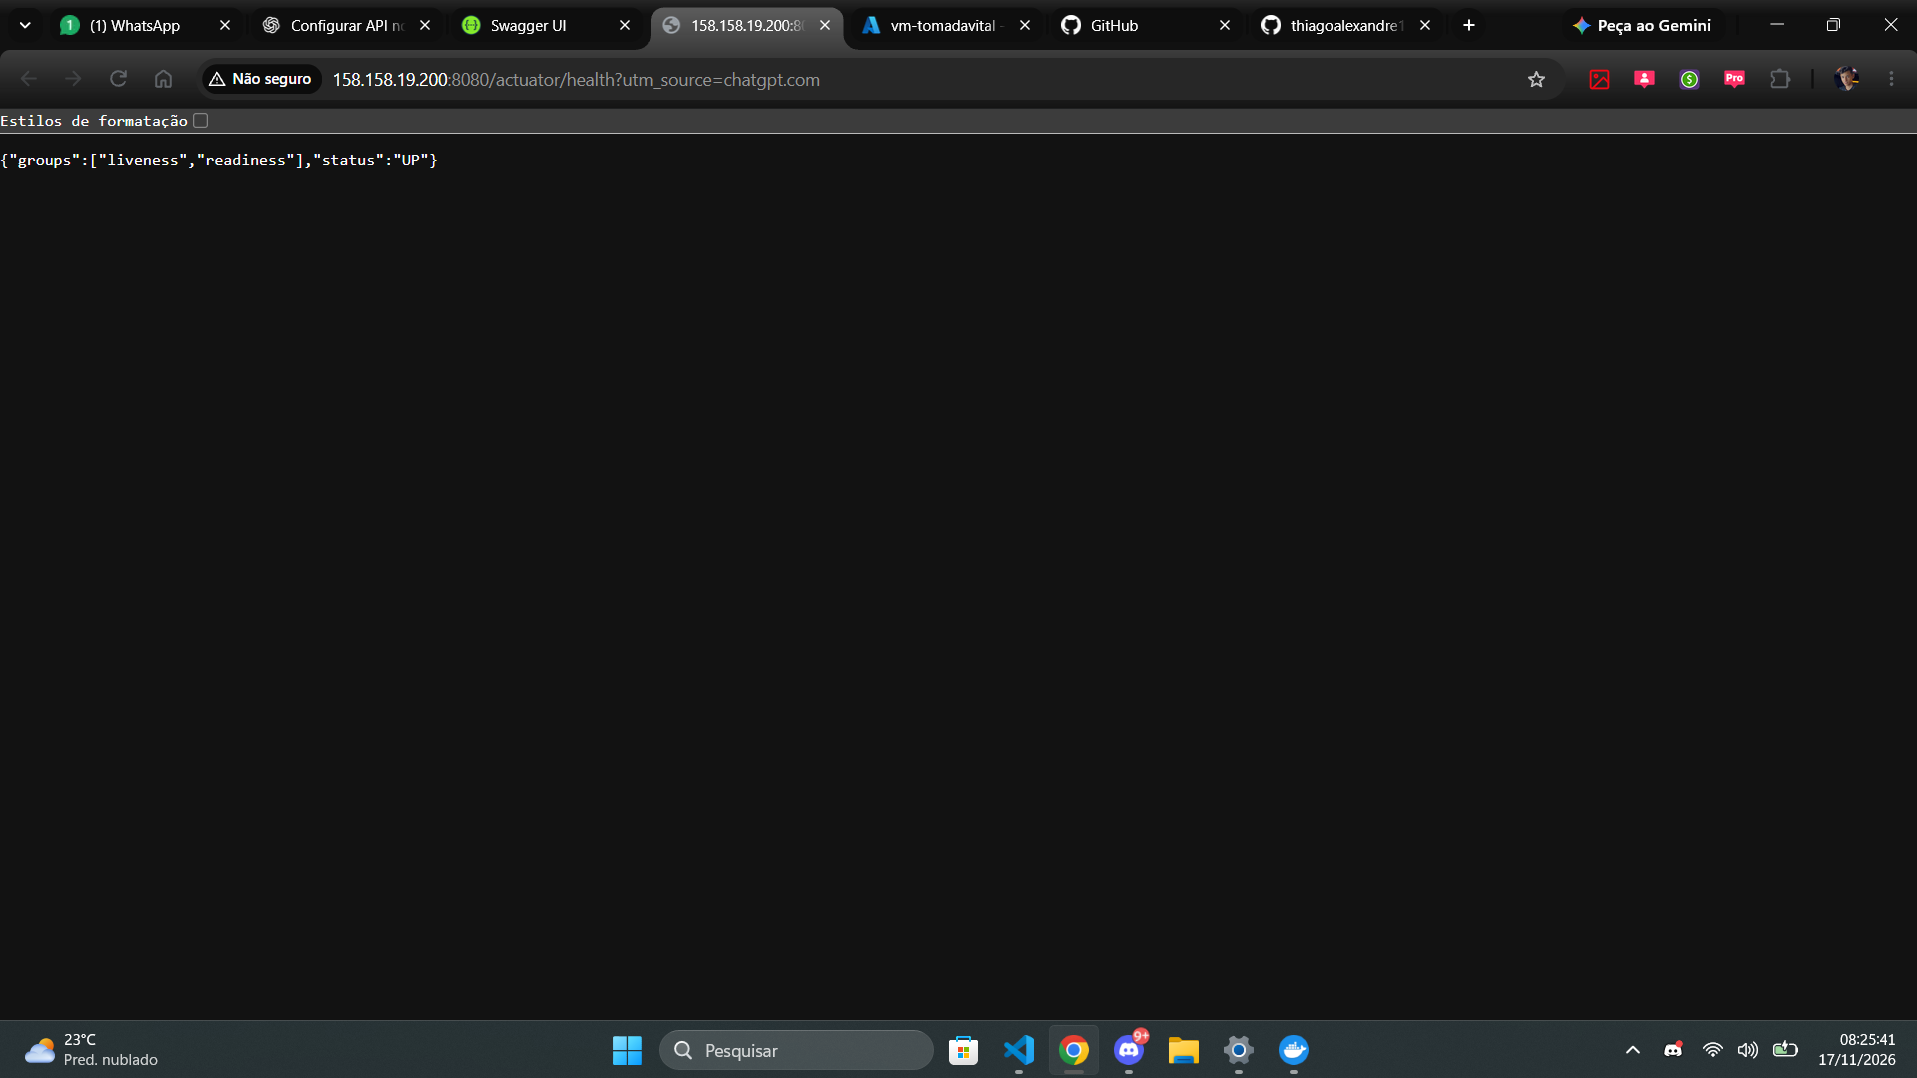
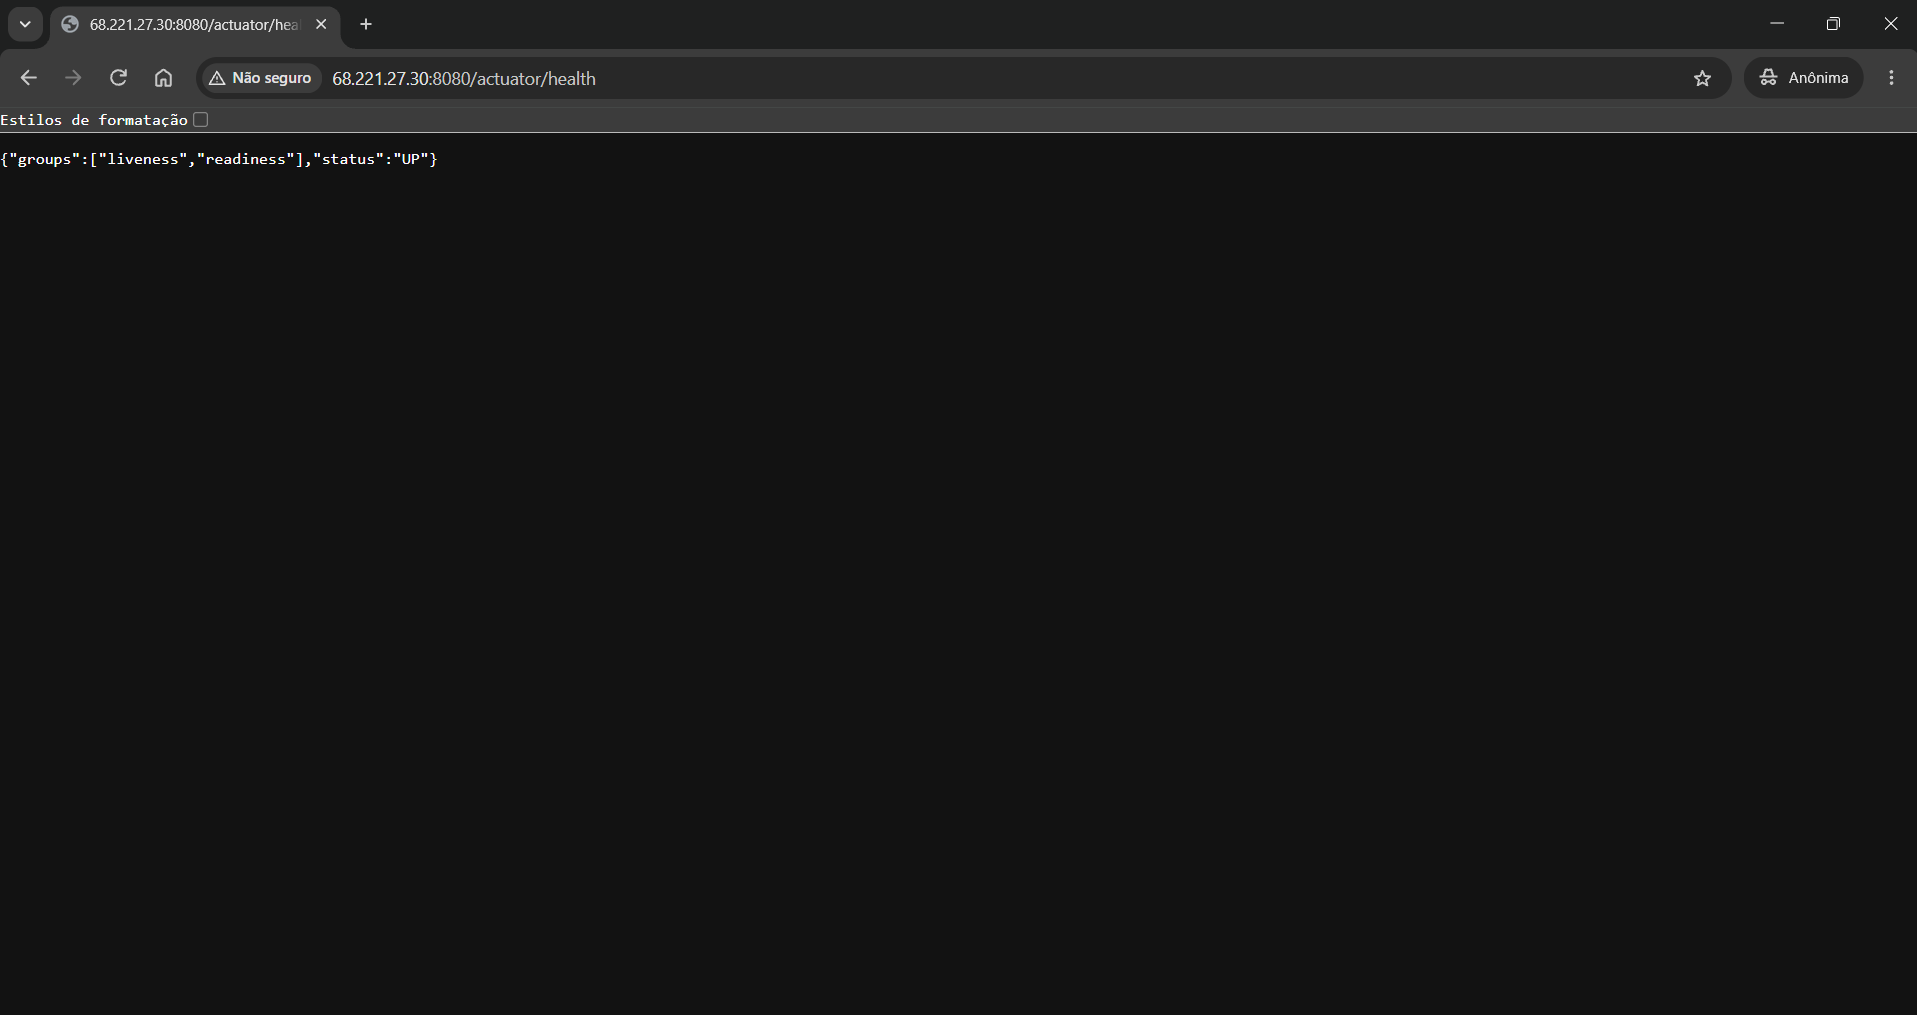
docs: adiciona evidencias complementares e atualiza infraestrutura Azure

diff --git a/README.md b/README.md
@@ -182,7 +182,7 @@ Substitua `IP_PUBLICO` pelo IP obtido do Azure para acessar externamente:
 | OpenAPI | `http://IP_PUBLICO:8080/v3/api-docs` |
 | Health | `http://IP_PUBLICO:8080/actuator/health` |
 
-IP utilizado na demonstração: `158.158.19.200` (pode mudar ao recriar a VM). HTTP sem TLS é somente para demonstração com dados fictícios. Não inserir dados de pacientes reais; restringir acesso e configurar HTTPS antes de qualquer uso real.
+IP utilizado na demonstração original (17/11/2026): `158.158.19.200`. Novo IP utilizado nas evidências complementares (18/11/2026): `68.221.27.30`. A infraestrutura original foi excluída após a gravação e recriada pelo mesmo script Azure CLI, comprovando a reprodutibilidade do ambiente. O IP poderá mudar novamente em futuras implantações. HTTP sem TLS é somente para demonstração com dados fictícios. Não inserir dados de pacientes reais; restringir acesso e configurar HTTPS antes de qualquer uso real.
 
 ## Dockerfile e Docker Compose
 
@@ -250,7 +250,7 @@ printf 'ID temporario: %s\n' "$TID"
 curl -sS -i -X DELETE "$BASE/api/pacientes/$TID" -H "Authorization: Bearer $TOKEN"
 ```
 
-Resultados esperados: POST 201, GET 200, PUT 200 e DELETE 204. O login e o CRUD via curl foram validados. O Swagger abriu publicamente e o login retornou 200; o CRUD protegido pelo Swagger foi validado com sucesso após a renovação do token JWT. Para usar o Swagger, autorize `basicAuth`, execute `POST /autenticacao/login`, depois cole apenas o valor de `accessToken` em `bearerAuth` (sem aspas nem prefixo Bearer). Nunca mostre o token em evidências.
+Resultados esperados: POST 201, GET 200, PUT 200 e DELETE 204. O login e o CRUD via curl foram validados. O Swagger abriu publicamente e o login retornou 200; o CRUD protegido pelo Swagger foi validado com sucesso após a renovação do token JWT. Para usar o Swagger, obtenha o JWT por HTTP Basic no endpoint `POST /autenticacao/login`, desautorize `basicAuth` e cole apenas o valor de `accessToken` em `bearerAuth` (sem aspas nem prefixo Bearer). Nunca mostre o token em evidências.
 
 ## SELECT e persistência
 
@@ -286,9 +286,13 @@ Execute a última consulta HTTP após a API estar pronta. **Não use `docker com
 | SELECT em duas tabelas | [05-select.png](docs/evidencias/05-select.png) |
 | Persistência após recriação | [06-persistencia.png](docs/evidencias/06-persistencia.png) |
 | Usuário e WORKDIR da API, rede e volume | [07-rede-volume.png](docs/evidencias/07-rede-volume.png) |
-| UID do processo MySQL e saúde da API | [08-mysql-uid.png](docs/evidencias/08-mysql-uid.png) |
+| UID 999 do processo MySQL | [08-mysql-uid.png](docs/evidencias/08-mysql-uid.png) |
+| Logs da API | [09-logs-api.png](docs/evidencias/09-logs-api.png) |
+| Logs do banco | [10-logs-db.png](docs/evidencias/10-logs-db.png) |
+| DELETE de registro temporário (204) | [11-delete.png](docs/evidencias/11-delete.png) |
+| Recriação da infraestrutura por Azure CLI | [12-azure-cli.png](docs/evidencias/12-azure-cli.png) |
 
-O CRUD completo pelo Swagger foi validado e demonstrado na apresentação em vídeo.
+O CRUD completo pelo Swagger foi validado e demonstrado na apresentação em vídeo. Em 18/11/2026, a infraestrutura foi recriada por Azure CLI e foram obtidas evidências complementares dos logs, UID do MySQL, Health público e DELETE HTTP 204. As capturas anteriores de SELECT e persistência correspondem à implantação original.
 
 ## Encerramento e custos
 
@@ -313,5 +317,6 @@ A exclusão do grupo apaga os recursos e pode apagar os dados armazenados na VM.
 ## Repositório
 
 [github.com/thiagoalexandre10/tomadavital-devops](https://github.com/thiagoalexandre10/tomadavital-devops)
+
 
 
